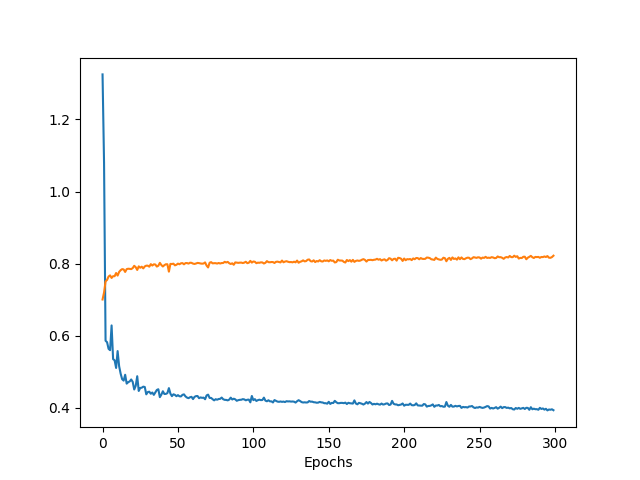
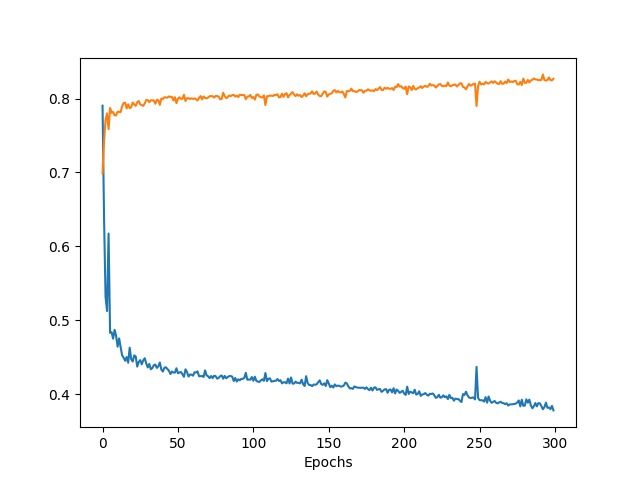
update files

diff --git a/Training.py b/Training.py
@@ -20,8 +20,8 @@ class model(nn.Module):
         super().__init__()
         self.l1 = nn.Linear(19,57)
         self.l2 = nn.Linear(57,57)
-        self.l3 = nn.Linear(57,2)
-        self.output = nn.Linear(2,1)
+        self.l3 = nn.Linear(57,19)
+        self.output = nn.Linear(19,1)
         self.sigmoid = nn.Sigmoid()
         self.act1 = nn.ReLU()
         self.act2 = nn.ReLU()
